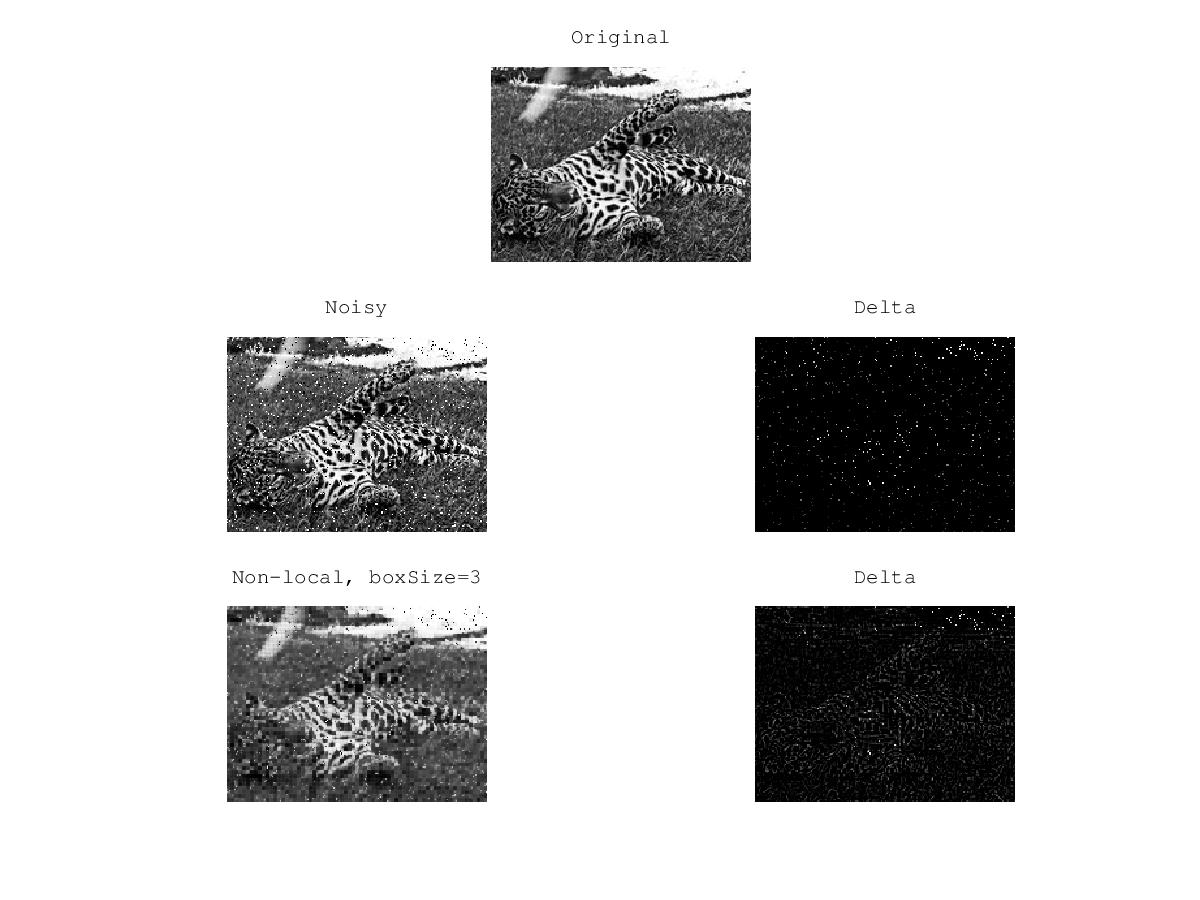
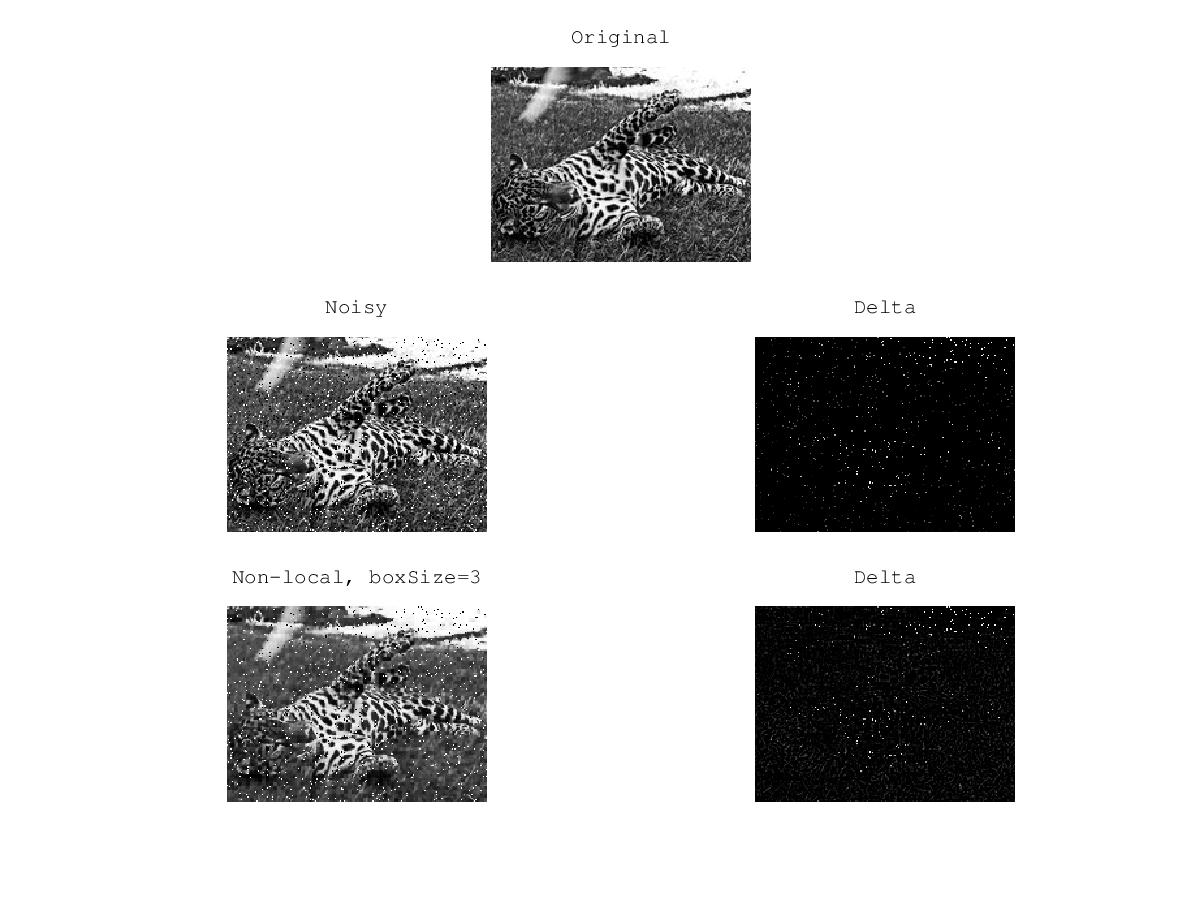
Implement weighted avg

Changed region(s): [[0.185, 0.6844, 0.4008, 0.9022], [0.185, 0.3733, 0.4008, 0.5911], [0.6475, 0.6844, 0.8325, 0.8711]]

diff --git a/ps3/nonlocal.m b/ps3/nonlocal.m
@@ -42,7 +42,6 @@ for i = 1:box_size:m
         % compare target window against windows with similar gray value
         window_columns = size(I, 2)-box_size+1;
         [height, width] = size(block); % block size might not be box_size x box_size near the edges
-        min_distance = height*width*err;
         avg_block = zeros(height, width);
         num_found = 0;
         for window_idx = idxes
@@ -50,10 +49,9 @@ for i = 1:box_size:m
             j3 = mod(window_idx-1, window_columns) + 1;
             block2 = double(I(i3:i3+height-1, j3:j3+width-1));
             distance = norm(block - block2, 2);
-            if distance <= min_distance
-                avg_block .+= block2;
-                num_found++;
-            end
+            weight = exp(-distance^2/err^2);
+            avg_block .+= block2*weight;
+            num_found += weight;
         end
 
         if num_found > 1

diff --git a/ps3/nonlocal_demo.m b/ps3/nonlocal_demo.m
@@ -1,7 +1,7 @@
 arglist = argv();
 box_size = str2num(arglist{1});
 
-I = imread('jaguar.jpg');
+I = imread('jaguar-medium.jpg');
 subplot(3,2,1:2);
 imshow(I);
 title('Original');
@@ -16,8 +16,8 @@ subplot(3,2,4);
 imshow(imsubtract(I, N));
 title('Delta');
 
-search_width = 1;
-err = 15;
+search_width = 3;
+err = 60;
 J = nonlocal(N, box_size, search_width, err);
 subplot(3,2,5);
 imshow(J);
@@ -26,5 +26,6 @@ title(sprintf('Non-local, boxSize=%d', box_size));
 subplot(3,2,6);
 imshow(imsubtract(I, J));
 title('Delta');
+pause
 
 print(sprintf('nonlocal_demo_%d.jpg', box_size));
